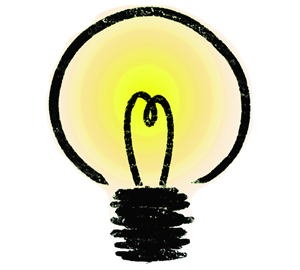
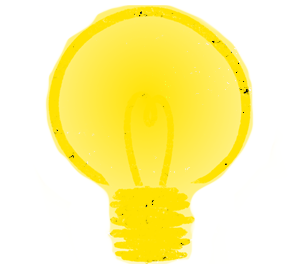
Exercício da lâmpada

diff --git a/Lâmpada/index.html b/Lâmpada/index.html
@@ -14,15 +14,13 @@
         <h1>Interaja com a Lâmpada</h1>
 
         <div>
-            <button id="imagem" onclick="quebrar()"><div id="lampada">
-
-            </div></button>
+            <button id="botao-imagem" ><img id="lampada" src="imgs/apagada.png" alt="image" ></button>
         </div>
 
         <div id="botoes">
             <form action="" method="get">
-                <button class="clicar" onclick="interruptor_ligar()">Ligar</button>
-                <button class="clicar" onclick="interruptor_desligar()">Desligar</button>
+                <button class="clicar" id="botao-ligar">Ligar</button>
+                <button class="clicar" id="botao-desligar">Desligar</button>
             </form>
         </div>
 
@@ -30,41 +28,64 @@
 
     <script>
         let click = 0
-
         let imagem = document.getElementById("lampada")
 
-        let back = window.getComputedStyle(imagem).backgroundImage
+        let bLigar = document.getElementById("botao-ligar")
+        let bDesligar = document.getElementById('botao-desligar')
+        let bLampada = document.getElementById('botao-imagem')
+
+        bLigar.addEventListener("click", interruptor_ligar)
+        bDesligar.addEventListener("click", interruptor_desligar)
+        bLampada.addEventListener("click", quebrar)
+
+        tipo = "apagada"
 
         function interruptor_ligar(){
-            /* 
-            O que eu fiz anteriomente:
-            if (imagem.style.backgroundImage != "imgs/acessa.png" && imagem.style.backgroundImage != "img/quebrada.png")
-            */
 
-            if(!back.includes("imgs/acessa.png") && !back.includes("imgs/quebrada.png")){
-                imagem.style.backgroundImage = "url('imgs/acessa.png')"
-
+            if(tipo === "apagada"){
+                tipo = "acessa"
+                imagem.src = 'imgs/acessa.png'
             }
         }
 
         function interruptor_desligar(){
-            /* 
-            O que eu fiz anteriomente:
-            if (imagem.style.backgroundImage != "imgs/acessa.png" && imagem.style.backgroundImage != "img/quebrada.png")
-            */
-
-            if(!back.includes("imgs/apagada.png") && !back.includes("imgs/quebrada.png")){
-                imagem.style.backgroundImage = "url('imgs/apagada.png')"
-
+            if(tipo === "acessa"){
+                tipo = "apagada"
+                imagem.src = 'imgs/apagada.png'
             }
         }
 
-        function clicou(){
+        function quebrar(){
+            
+            click++
             if (click > 3){
-                imagem.style.backgroundImage = "url(imgs/quebrada.png)"
+                imagem.src = 'imgs/quebrada.png'
+                tipo = 'quebrada'
+                document.getElementById('botoes').style.display = 'none'
             }
         }
+
+
+        /*Eu estou sem palavras...........*/
+        
+        /* 
+        O que eu fiz anteriomente:
+        if (imagem.style.backgroundImage != "imgs/acessa.png" && imagem.style.backgroundImage != "img/quebrada.png")
+
+        O que eu fiz depois: 
+        if(!back.includes("imgs/apagada.png") && !back.includes("imgs/quebrada.png")){
+            imagem.style.backgroundImage = "url('imgs/apagada.png')"
+
+        e depois:
+        if(src === 'imgs/apagada.png'){
+                imagem.src = 'imgs/acessa.png'
+                alert(imagem.src)
+            }
+
+    */
     </script>
+
+    
     
 </body>
 </html>

diff --git a/Lâmpada/style.css b/Lâmpada/style.css
@@ -18,6 +18,10 @@ body{
 div#corpo{
     background: rgba(255, 255, 255, 0.208);
 
+
+    height: 400px;
+    width: 300px;
+
     padding: 50px;
     border-radius: 10px;
     box-shadow: 0px 8px 8px rgba(0, 0, 0, 0.507);
@@ -41,7 +45,7 @@ img{
     padding-bottom: 20px;
 }
 
-button#imagem{
+button#botao-imagem{
     background-color: transparent;
     border: none;
     cursor: pointer;
@@ -71,13 +75,5 @@ div#botoes{
     align-items: center;
 }
 
-div#lampada{
 
-    background-image: url(imgs/apagada.png);
-    background-repeat: no-repeat;
-    width: 300px;
-    height: 270px;
-
-    padding-bottom: 20px;
-}
 
